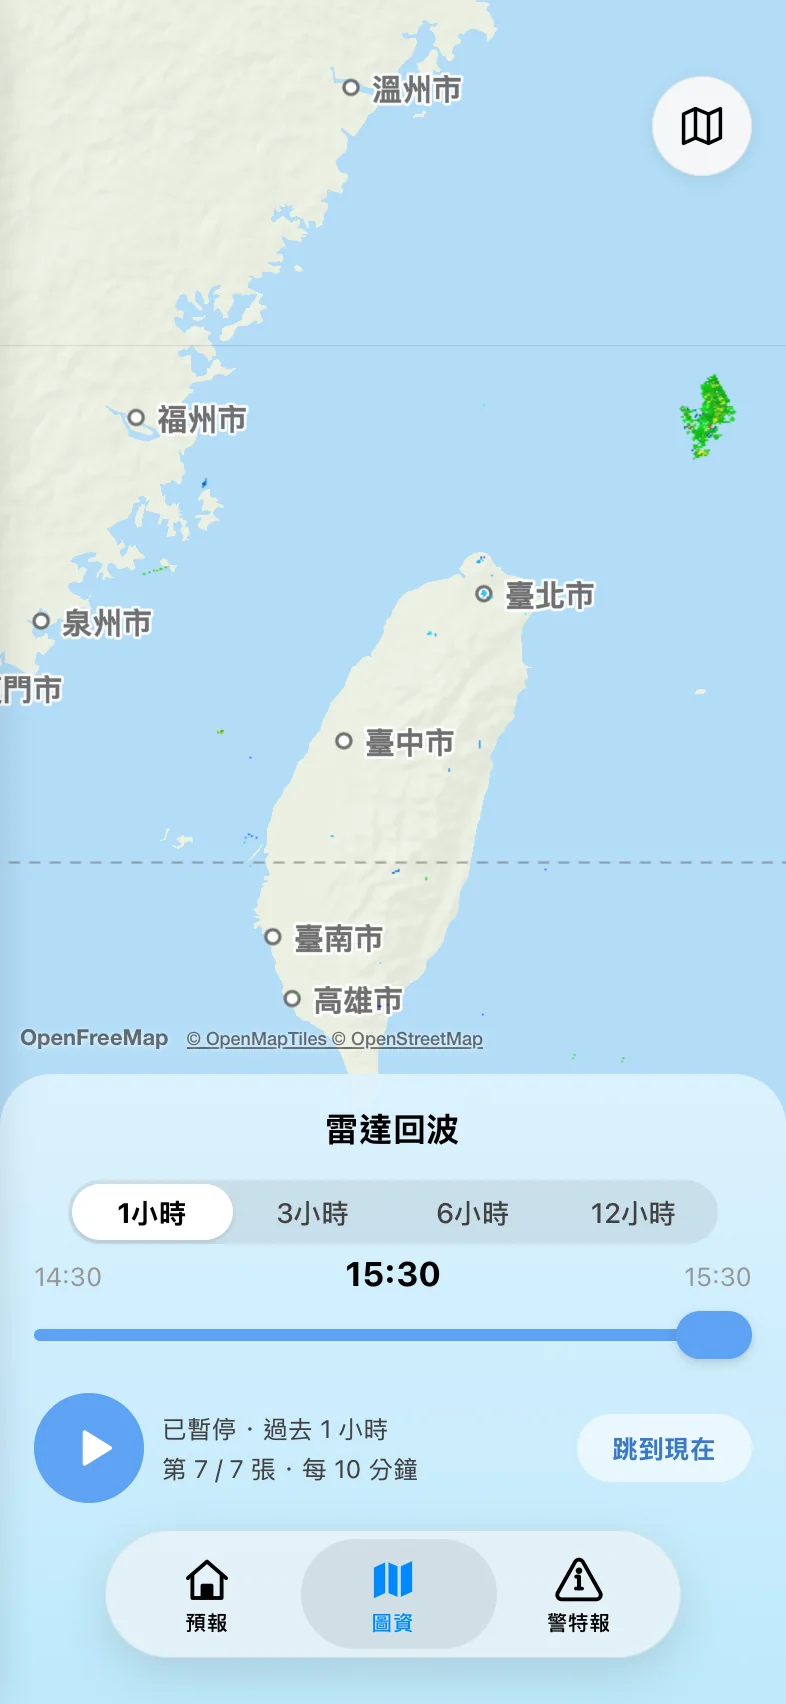
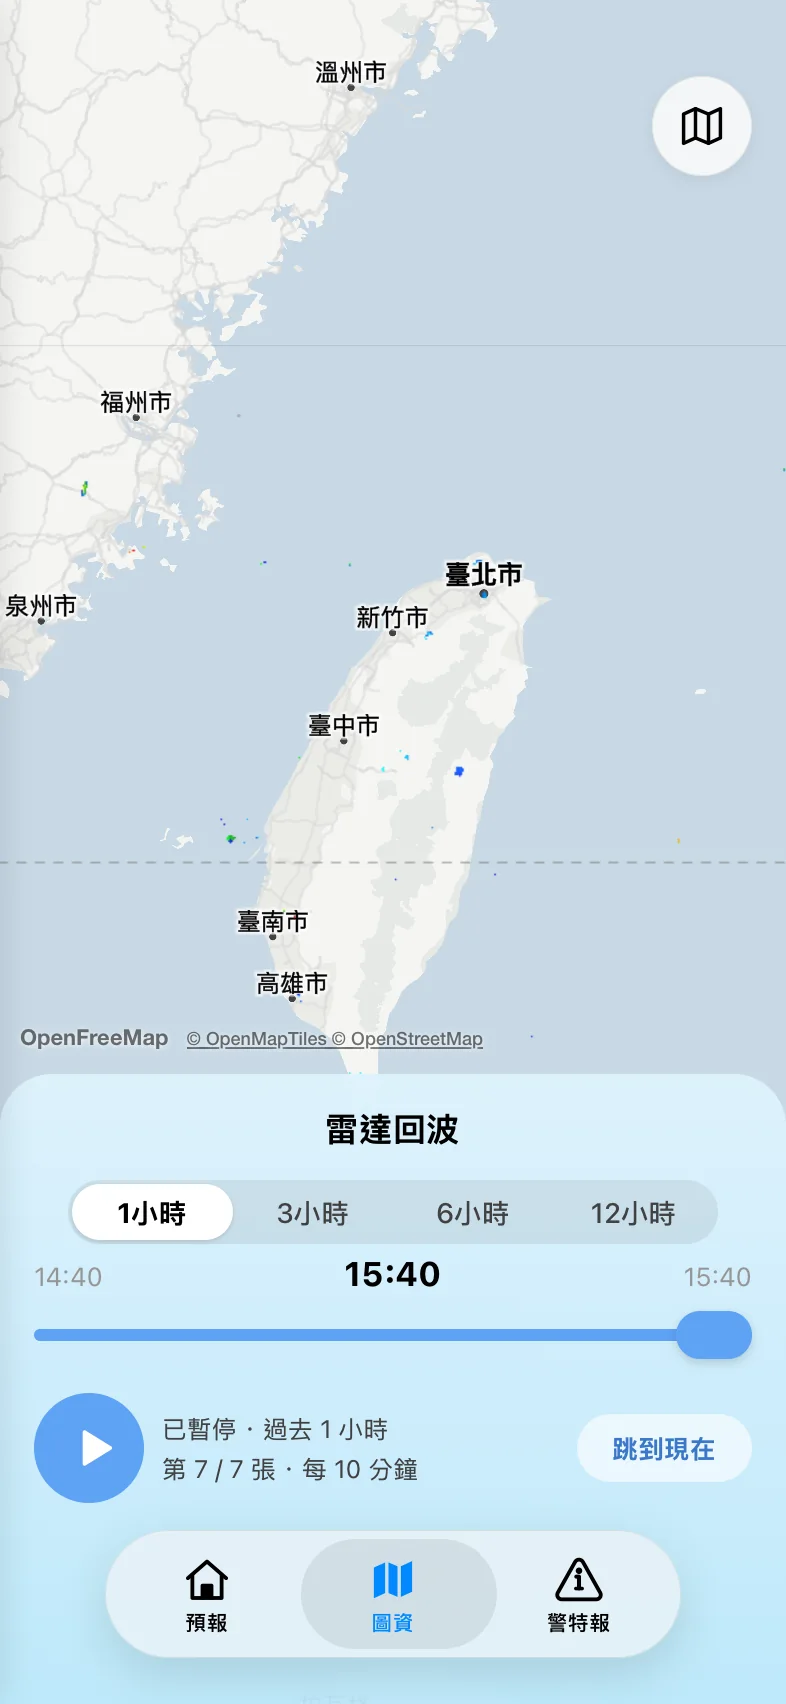
Use OpenFreeMap Positron/Dark for the radar map, tuned for radar
Same basemaps as mrt-app, adjusted for a weather overlay: neutral grey
land with a soft blue-grey sea, Chinese place labels, no maritime or
disputed borders, no duplicate country/state names, the dark style's
dotted wood texture removed, readable dark-mode roads, and the Tropic of
Cancer line kept from the app. The dark radar panel is now neutral grey
to match.

diff --git a/src/components/RadarMap.tsx b/src/components/RadarMap.tsx
@@ -1,5 +1,5 @@
 import { useEffect, useRef, useState } from "react";
-import { Map as MapLibreMap, type StyleSpecification } from "maplibre-gl";
+import { Map as MapLibreMap, type ExpressionSpecification, type FilterSpecification } from "maplibre-gl";
 import "maplibre-gl/dist/maplibre-gl.css";
 import type { Scheme } from "../lib/colors";
 
@@ -7,69 +7,92 @@ import type { Scheme } from "../lib/colors";
 const RADAR_NW: [number, number] = [118, 26.5];
 const RADAR_SE: [number, number] = [124, 20.5];
 
-/** Palette sampled from Apple Maps as rendered inside the iOS app. */
-const PALETTE = {
-  light: { land: "#f1f5e7", green: "#e4eed7", water: "#bfe4fa", waterDeep: "#9fd1f3", road: "#ffffff", roadCase: "#e2ddd0", border: "#b7b2a8", city: "#6f6f6f", cityHalo: "rgba(255,255,255,0.9)", country: "#a77d9c", sea: "#7c9fbd", reliefOpacity: 0.11, tropic: "rgba(110,110,110,0.55)" },
-  dark: { land: "#203f49", green: "#1d4148", water: "#142350", waterDeep: "#0b1638", road: "#3c5660", roadCase: "#203f49", border: "#5e7b83", city: "#c9d3d8", cityHalo: "rgba(10,20,50,0.85)", country: "#c7a9c0", sea: "#8ea5c9", reliefOpacity: 0.1, tropic: "rgba(200,210,220,0.45)" },
+// Same OpenFreeMap basemaps as mrt-app (no key, no usage limits), tuned below for a radar overlay.
+const STYLE_URL: Record<Scheme, string> = {
+  light: "https://tiles.openfreemap.org/styles/positron",
+  dark: "https://tiles.openfreemap.org/styles/dark",
 };
 
-function buildStyle(scheme: Scheme): StyleSpecification {
-  const c = PALETTE[scheme];
-  const name = ["coalesce", ["get", "name:zh-Hant"], ["get", "name:zh"], ["get", "name"]] as unknown as string;
-  return {
-    version: 8,
-    glyphs: "https://tiles.openfreemap.org/fonts/{fontstack}/{range}.pbf",
-    sources: {
-      omt: { type: "vector", url: "https://tiles.openfreemap.org/planet" },
-      tropic: { type: "geojson", data: { type: "Feature", properties: { name: "北回歸線" }, geometry: { type: "LineString", coordinates: [[100, 23.4365], [140, 23.4365]] } } },
-      relief: { type: "raster", tiles: ["https://tiles.openfreemap.org/natural_earth/ne2sr/{z}/{x}/{y}.png"], tileSize: 256, maxzoom: 6 },
-    },
-    layers: [
-      { id: "land", type: "background", paint: { "background-color": c.land } },
-      { id: "relief", type: "raster", source: "relief", paint: { "raster-opacity": c.reliefOpacity, "raster-saturation": -0.6, "raster-fade-duration": 0 } },
-      { id: "wood", type: "fill", source: "omt", "source-layer": "landcover", filter: ["in", ["get", "class"], ["literal", ["wood", "grass", "farmland"]]], paint: { "fill-color": c.green, "fill-opacity": 0.55, "fill-antialias": false } },
-      { id: "water", type: "fill", source: "omt", "source-layer": "water", paint: { "fill-color": ["interpolate", ["linear"], ["zoom"], 4, c.waterDeep, 7, c.water] } },
-      { id: "roads", type: "line", source: "omt", "source-layer": "transportation", minzoom: 6, filter: ["in", ["get", "class"], ["literal", ["motorway", "trunk"]]], paint: { "line-color": c.road, "line-width": ["interpolate", ["linear"], ["zoom"], 6, 0.6, 10, 2.4] } },
-      { id: "boundary", type: "line", source: "omt", "source-layer": "boundary", filter: ["all", ["==", ["get", "admin_level"], 4], ["!=", ["get", "maritime"], 1]], minzoom: 7, paint: { "line-color": c.border, "line-width": 0.8, "line-dasharray": [2, 2] } },
-      { id: "tropic", type: "line", source: "tropic", paint: { "line-color": c.tropic, "line-width": 1.1, "line-dasharray": [3, 2.5] } },
-      { id: "sea-labels", type: "symbol", source: "omt", "source-layer": "water_name", layout: { "text-field": name, "text-font": ["Noto Sans Italic"], "text-size": 12, "text-letter-spacing": 0.3, "text-max-width": 6 }, paint: { "text-color": c.sea, "text-halo-color": c.cityHalo, "text-halo-width": 0.6 } },
-      { id: "country", type: "symbol", source: "omt", "source-layer": "place", filter: ["==", ["get", "class"], "country"], layout: { "text-field": name, "text-font": ["Noto Sans Bold"], "text-size": 14, "text-letter-spacing": 0.15 }, paint: { "text-color": c.country, "text-halo-color": c.cityHalo, "text-halo-width": 1 } },
-      { id: "cities", type: "symbol", source: "omt", "source-layer": "place", filter: ["all", ["==", ["get", "class"], "city"], ["<=", ["get", "rank"], 6]], layout: { "icon-image": `city-dot-${scheme}`, "icon-size": 0.5, "text-field": name, "text-font": ["Noto Sans Bold"], "text-size": 15, "text-anchor": "left", "text-offset": [0.7, 0], "text-optional": false }, paint: { "text-color": c.city, "text-halo-color": c.cityHalo, "text-halo-width": 1.4 } },
-    ],
-  };
+const ZH_NAME: ExpressionSpecification = ["coalesce", ["get", "name:zh-Hant"], ["get", "name:zh-TW"], ["get", "name:zh"], ["get", "name"]];
+
+/**
+ * Neutral grey land with a soft blue-grey sea so radar echoes stand out, Chinese labels,
+ * no maritime borders or redundant country/state names, and small places only when zoomed in.
+ */
+function tune(map: MapLibreMap, scheme: Scheme) {
+  const paint = (id: string, prop: string, value: unknown) => { if (map.getLayer(id)) map.setPaintProperty(id, prop, value); };
+  for (const layer of map.getStyle().layers ?? []) {
+    const id = layer.id;
+    if (/^(label_country|label_state|place_country|place_state|boundary_disputed|highway[-_]name|highway-shield|road_shield|road_oneway|airport|waterway_line_label|water_name_line)/.test(id)) {
+      map.setLayoutProperty(id, "visibility", "none");
+      continue;
+    }
+    if (layer.type === "line" && id.startsWith("boundary")) {
+      const existing = map.getFilter(id);
+      map.setFilter(id, (existing ? ["all", existing, ["!=", ["get", "maritime"], 1]] : ["!=", ["get", "maritime"], 1]) as FilterSpecification);
+    }
+    if (layer.type === "symbol" && map.getLayoutProperty(id, "text-field")) {
+      map.setLayoutProperty(id, "text-field", ZH_NAME);
+      if (/(other|village|suburb)$/.test(id)) map.setLayerZoomRange(id, 11, 24);
+      if (scheme === "dark" && /^place_/.test(id)) {
+        paint(id, "text-color", "#c9ccd2");
+        paint(id, "text-halo-color", "rgba(17, 18, 22, 0.9)");
+      }
+    }
+  }
+  if (scheme === "light") {
+    paint("background", "background-color", "#f5f5f2");
+    paint("water", "fill-color", "#c8d9e5");
+    paint("waterway", "line-color", "#c8d9e5");
+  } else {
+    paint("background", "background-color", "#26282c");
+    paint("water", "fill-color", "#121419");
+    paint("waterway", "line-color", "#121419");
+    paint("landuse_residential", "fill-color", "#2c2e33");
+    // OpenFreeMap Dark's wood-pattern fill renders as a field of grey dots.
+    if (map.getLayer("landcover_wood")) map.setLayoutProperty("landcover_wood", "visibility", "none");
+    paint("highway_motorway_inner", "line-color", "#45484e");
+    paint("highway_major_inner", "line-color", "#3a3d42");
+    paint("highway_major_subtle", "line-color", "#3a3d42");
+    paint("highway_motorway_subtle", "line-color", "#3a3d42");
+    paint("highway_minor", "line-color", "#33363b");
+  }
+  // The app's map marks the Tropic of Cancer, which crosses Chiayi and Hualien.
+  if (!map.getSource("tropic")) {
+    map.addSource("tropic", { type: "geojson", data: { type: "Feature", properties: {}, geometry: { type: "LineString", coordinates: [[100, 23.4365], [140, 23.4365]] } } });
+  }
+  if (!map.getLayer("tropic")) {
+    const firstLabel = map.getStyle().layers?.find((l) => l.type === "symbol")?.id;
+    map.addLayer({
+      id: "tropic", type: "line", source: "tropic",
+      paint: { "line-color": scheme === "dark" ? "rgba(200, 210, 220, 0.35)" : "rgba(110, 110, 110, 0.45)", "line-width": 1, "line-dasharray": [3, 2.5] },
+    }, firstLabel);
+  }
 }
 
 export function RadarMap({ imageUrl, scheme }: { imageUrl?: string; scheme: Scheme }) {
   const holder = useRef<HTMLDivElement>(null);
   const overlay = useRef<HTMLImageElement>(null);
   const map = useRef<MapLibreMap | null>(null);
+  const schemeRef = useRef(scheme);
   const [ready, setReady] = useState(false);
 
   useEffect(() => {
     if (!holder.current) return;
     const m = new MapLibreMap({
       container: holder.current,
-      style: buildStyle(scheme),
+      style: STYLE_URL[schemeRef.current],
       center: [120.97, 23.5],
       zoom: 5.75,
       minZoom: 4,
-      maxZoom: 11,
+      maxZoom: 12,
       attributionControl: false,
       localIdeographFontFamily: "'PingFang TC', 'Noto Sans TC', 'Microsoft JhengHei', sans-serif",
       dragRotate: false,
       pitchWithRotate: false,
+      fadeDuration: 0,
     });
     m.touchZoomRotate.disableRotation();
-    m.on("styleimagemissing", (e) => {
-      if (!e.id.startsWith("city-dot-")) return;
-      const c = PALETTE[e.id.endsWith("dark") ? "dark" : "light"];
-      const size = 22, canvas = document.createElement("canvas");
-      canvas.width = canvas.height = size;
-      const g = canvas.getContext("2d")!;
-      g.fillStyle = c.cityHalo; g.strokeStyle = c.city; g.lineWidth = 3.2;
-      g.beginPath(); g.arc(size / 2, size / 2, 7, 0, Math.PI * 2); g.fill(); g.stroke();
-      m.addImage(e.id, g.getImageData(0, 0, size, size), { pixelRatio: 1 });
-    });
     // Radar frames come from a CDN without CORS headers, so they are drawn as a plain <img>
     // pinned to the composite's lat/lon bounds instead of a WebGL image source.
     const place = () => {
@@ -82,15 +105,16 @@ export function RadarMap({ imageUrl, scheme }: { imageUrl?: string; scheme: Sche
     };
     m.on("move", place);
     m.on("resize", place);
-    m.on("load", () => { place(); setReady(true); });
+    m.on("style.load", () => { tune(m, schemeRef.current); place(); setReady(true); });
     map.current = m;
     return () => { m.remove(); map.current = null; };
-    // eslint-disable-next-line react-hooks/exhaustive-deps
   }, []);
 
   useEffect(() => {
-    if (ready) map.current?.setStyle(buildStyle(scheme), { diff: true });
-  }, [scheme, ready]);
+    if (schemeRef.current === scheme) return;
+    schemeRef.current = scheme;
+    map.current?.setStyle(STYLE_URL[scheme]);
+  }, [scheme]);
 
   return (
     <div className="radar-map" ref={holder}>

diff --git a/src/styles/app.css b/src/styles/app.css
@@ -482,8 +482,8 @@ p, h1, h2, h3 { margin: 0; font-weight: inherit; }
 
 /* ---------- Maps ---------- */
 .maps { position: absolute; inset: 0; background: var(--gray100); overflow: hidden; }
-.maps .radar-map { position: absolute; z-index: 0; inset: 0; background: #bfe4fa; }
-:root[data-theme="dark"] .radar-map { background: #142350; }
+.maps .radar-map { position: absolute; z-index: 0; inset: 0; background: #c8d9e5; }
+:root[data-theme="dark"] .radar-map { background: #121419; }
 .map-credit { position: absolute; z-index: 2; left: 10px; bottom: 323px; font-size: 11px; font-weight: 600; color: rgba(0, 0, 0, 0.55); text-shadow: 0 0 3px rgba(255, 255, 255, 0.9); }
 .map-credit span { font-weight: 500; font-size: 9px; text-decoration: underline; margin-left: 6px; }
 :root[data-theme="dark"] .map-credit { color: rgba(255, 255, 255, 0.75); text-shadow: 0 0 3px rgba(0, 0, 0, 0.8); }
@@ -500,7 +500,7 @@ p, h1, h2, h3 { margin: 0; font-weight: inherit; }
   border-radius: 26px 26px 0 0; padding: 17.2px 0 0;
 }
 .maps-panel.sky { background: linear-gradient(180deg, rgba(222, 243, 253, 0.94), rgba(190, 233, 251, 0.97)); backdrop-filter: blur(18px); -webkit-backdrop-filter: blur(18px); }
-:root[data-theme="dark"] .maps-panel.sky { background: linear-gradient(180deg, rgba(30, 44, 92, 0.94), rgba(16, 24, 56, 0.97)); }
+:root[data-theme="dark"] .maps-panel.sky { background: linear-gradient(180deg, rgba(40, 42, 47, 0.94), rgba(24, 25, 29, 0.97)); }
 .maps-panel.plain { background: rgba(254, 254, 255, 0.97); box-shadow: 0 -2px 14px rgba(0, 0, 0, 0.06); }
 :root[data-theme="dark"] .maps-panel.plain { background: rgba(49, 49, 49, 0.98); }
 .maps-rain .maps-panel { height: 361.4px; padding-top: 19px; }

diff --git a/README.md b/README.md
@@ -101,7 +101,7 @@ Then open http://localhost:5173/taiwan-weather-live/. `npm run build` produces a
 
 - Weather data: the `api.taiwanweather.app` API used by the original app, which aggregates
   中央氣象署 (CWA) and 環境部 open data.
-- Map tiles: [OpenFreeMap](https://openfreemap.org) / © OpenMapTiles © OpenStreetMap contributors.
+- Map: [OpenFreeMap](https://openfreemap.org) Positron / Dark (the same basemaps as our mrt-app), tuned for the radar overlay — © OpenMapTiles © OpenStreetMap contributors.
 - The monochrome glyphs and the location-permission illustration come from the original
   天氣預報 app by Shuttle Network Limited; the hero art, colour weather icons, app icon and
   social preview are generated for this project. This is an unofficial fan rebuild and is not
